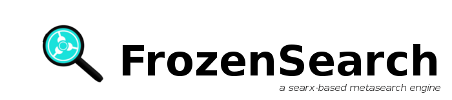
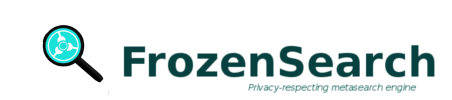
improved interface

Changed region(s): [[0.2478, 0.42, 0.9912, 0.78], [0.5265, 0.84, 0.9912, 0.93]]

diff --git a/searx/templates/oscar/about.html b/searx/templates/oscar/about.html
@@ -3,15 +3,15 @@
 {% block title %}{{ _('about') }} - {% endblock %}
 {% block content %}
 <div>
-    <h1>About <a href="{{ url_for('index') }}">frozensearch</a></h1>
+    <h1>About <a href="{{ url_for('index') }}">FrozenSearch</a></h1>
 
-    <p>frozensearch is a <a href="https://en.wikipedia.org/wiki/Metasearch_engine">metasearch engine</a>, aggregating the results of other <a href="{{ url_for('preferences') }}">search engines</a> while not storing information about its users.
+    <p>FrozenSearch is a <a href="https://en.wikipedia.org/wiki/Metasearch_engine">metasearch engine</a>, aggregating the results of other <a href="{{ url_for('preferences') }}">search engines</a> while not storing information about its users.
     </p>
-    <h2>Why use frozensearch?</h2>
+    <h2>Why use FrozenSearch?</h2>
     <ul>
         <li>frozensearch may not offer you as personalised results as Google, but it doesn't generate a profile about you</li>
         <li>frozensearch doesn't care about what you search for, never shares anything with a third party, and it can't be used to compromise you</li>
-        <li>frozensearch is free software, the code is 100% open and you can help to make it better. See more on <a href="https://github.com/asciimoo/frozensearch">github</a></li>
+        <li>frozensearch is free software, the code is 100% open and you can help to make it better. See more on <a href="https://github.com/frozenbox/frozensearch">github</a></li>
     </ul>
     <p>If you do care about privacy, want to be a conscious user, or otherwise believe
     in digital freedom, make frozensearch your default search engine or run it on your own server</p>
@@ -26,18 +26,16 @@ frozensearch can be added to your browser's search bar; moreover, it can be set 
 
 <h2>How can I make it my own?</h2>
 
-<p>frozensearch appreciates your concern regarding logs, so take the <a href="https://github.com/asciimoo/frozensearch">code</a> and run it yourself! <br />Add your frozensearch to this <a href="https://github.com/asciimoo/frozensearch/wiki/frozensearch-instances">list</a> to help other people reclaim their privacy and make the Internet freer!
+<p>frozensearch appreciates your concern regarding logs, so take the <a href="https://github.com/frozenbox/frozensearch">code</a> and run it yourself! <br />Add your frozensearch to this <a href="https://github.com/asciimoo/searx/wiki/searx-instances">list</a> to help other people reclaim their privacy and make the Internet freer!
 <br />The more decentralized the Internet, is the more freedom we have!</p>
 
 
 <h2>More about frozensearch</h2>
 
 <ul>
-    <li><a href="https://github.com/asciimoo/frozensearch">github</a></li>
-    <li><a href="https://www.ohloh.net/p/frozensearch/">ohloh</a></li>
-    <li><a href="https://twitter.com/frozensearch_engine">twitter</a></li>
-    <li>IRC: #frozensearch @ freenode (<a href="https://kiwiirc.com/client/irc.freenode.com/frozensearch">webclient</a>)</li>
-    <li><a href="https://www.transifex.com/projects/p/frozensearch/">transifex</a></li>
+    <li><a href="http://www.frozenbox.org">Frozenbox Network</a></li>
+    <li><a href="https://github.com/frozenbox/frozensearch">github</a></li>
+    <li><a href="https://twitter.com/frozenboxnet">twitter</a></li>
 </ul>
 
 
@@ -53,12 +51,12 @@ frozensearch can be added to your browser's search bar; moreover, it can be set 
 <h3>New engines?</h3>
 <ul>
     <li>Edit your <a href="https://raw.github.com/asciimoo/frozensearch/master/frozensearch/settings.yml">settings.yml</a></li>
-    <li>Create your custom engine module, check the <a href="https://github.com/asciimoo/frozensearch/blob/master/examples/basic_engine.py">example engine</a></li>
+    <li>Create your custom engine module, check the <a href="https://github.com/frozenbox/frozensearch/blob/master/examples/basic_engine.py">example engine</a></li>
 </ul>
 <p>Don't forget to restart frozensearch after config edit!</p>
 
 <h3>Installation/WSGI support?</h3>
-<p>See the <a href="https://github.com/asciimoo/frozensearch/wiki/Installation">installation and setup</a> wiki page</p>
+<p>See the <a href="https://github.com/asciimoo/searx/wiki/Installation">installation and setup</a> wiki page</p>
 
 <h3>How to debug engines?</h3>
 <p><a href="{{ url_for('stats') }}">Stats page</a> contains some useful data about the engines used.</p>

diff --git a/searx/templates/courgette/about.html b/searx/templates/courgette/about.html
@@ -2,11 +2,11 @@
 {% block content %}
 {% include 'default/github_ribbon.html' %}
 <div class="row">
-    <h1>About <a href="{{ url_for('index') }}">frozensearch</a></h1>
+    <h1>About <a href="{{ url_for('index') }}">FrozenSearch</a></h1>
 
-    <p>frozensearch is a <a href="https://en.wikipedia.org/wiki/Metasearch_engine">metasearch engine</a>, aggregating the results of other <a href="{{ url_for('preferences') }}">search engines</a> while not storing information about its users.
+    <p>FrozenSearch is a <a href="https://en.wikipedia.org/wiki/Metasearch_engine">metasearch engine</a>, aggregating the results of other <a href="{{ url_for('preferences') }}">search engines</a> while not storing information about its users.
     </p>
-    <h2>Why use frozensearch?</h2>
+    <h2>Why use FrozenSearch?</h2>
     <ul>
         <li>frozensearch may not offer you as personalised results as Google, but it doesn't generate a profile about you</li>
         <li>frozensearch doesn't care about what you search for, never shares anything with a third party, and it can't be used to compromise you</li>
@@ -25,18 +25,17 @@ frozensearch can be added to your browser's search bar; moreover, it can be set 
 
 <h2>How can I make it my own?</h2>
 
-<p>frozensearch appreciates your concern regarding logs, so take the <a href="https://github.com/asciimoo/frozensearch">code</a> and run it yourself! <br />Add your frozensearch to this <a href="https://github.com/asciimoo/frozensearch/wiki/frozensearch-instances">list</a> to help other people reclaim their privacy and make the Internet freer!
+<p>frozensearch appreciates your concern regarding logs, so take the <a href="https://github.com/frozenbox/frozensearch">code</a> and run it yourself! <br />Add your frozensearch to this <a href="https://github.com/asciimoo/searx/wiki/searx-instances">list</a> to help other people reclaim their privacy and make the Internet freer!
 <br />The more decentralized the Internet, is the more freedom we have!</p>
 
 
 <h2>More about frozensearch</h2>
 
 <ul>
-    <li><a href="https://github.com/asciimoo/frozensearch">github</a></li>
-    <li><a href="https://www.ohloh.net/p/frozensearch/">ohloh</a></li>
-    <li><a href="https://twitter.com/frozensearch_engine">twitter</a></li>
-    <li>IRC: #frozensearch @ freenode (<a href="https://kiwiirc.com/client/irc.freenode.com/frozensearch">webclient</a>)</li>
-    <li><a href="https://www.transifex.com/projects/p/frozensearch/">transifex</a></li>
+    <li><a href="http://www.frozenbox.org">Frozenbox Homepage</a></li>
+    <li><a href="https://github.com/frozenbox/frozensearch">github</a></li>
+    <li><a href="https://twitter.com/frozenboxnet">twitter</a></li>
+    <li>IRC: #frozenbox @ freenode (<a href="https://kiwiirc.com/client/irc.freenode.com/frozenbox">webclient</a>)</li>
 </ul>
 
 
@@ -51,8 +50,8 @@ frozensearch can be added to your browser's search bar; moreover, it can be set 
 
 <h3>New engines?</h3>
 <ul>
-    <li>Edit your <a href="https://raw.github.com/asciimoo/frozensearch/master/frozensearch/settings.yml">settings.yml</a></li>
-    <li>Create your custom engine module, check the <a href="https://github.com/asciimoo/frozensearch/blob/master/examples/basic_engine.py">example engine</a></li>
+    <li>Edit your <a href="https://raw.github.com/frozenbox/frozensearch/master/searx/settings.yml">settings.yml</a></li>
+    <li>Create your custom engine module, check the <a href="https://github.com/frozenbox/frozensearch/blob/master/examples/basic_engine.py">example engine</a></li>
 </ul>
 <p>Don't forget to restart frozensearch after config edit!</p>
 

diff --git a/searx/templates/oscar/base.html b/searx/templates/oscar/base.html
@@ -6,7 +6,7 @@
     <meta name="keywords" content="frozensearch, search, search engine, metasearch, meta search" />
     <meta http-equiv="X-UA-Compatible" content="IE=edge">
     <meta name="viewport" content="width=device-width, initial-scale=1 , maximum-scale=1.0, user-scalable=1" />
-    <title>{% block title %}{% endblock %}frozensearch</title>
+    <title>{% block title %}{% endblock %}FrozenSearch</title>
 
     <link rel="stylesheet" href="{{ url_for('static', filename='css/bootstrap.min.css') }}" type="text/css" />
     <link rel="stylesheet" href="{{ url_for('static', filename='css/oscar.min.css') }}" type="text/css" />
@@ -65,7 +65,7 @@
         <div class="container">
             {% block footer %}
             {% endblock %}
-            <p class="text-muted">{{ _('Powered by') }} <a href="https://github.com/asciimoo/frozensearch">frozensearch</a> - {{ frozensearch_version }} - {{ _('a privacy-respecting, hackable metasearch engine') }}</p>
+            <p class="text-muted">Powered by <a href="https://github.com/frozenbox/frozensearch">FrozenSearch</a> - a privacy-respecting, hackable metasearch engine - Proudly powered by <a href="http://en.wikipedia.org/wiki/Caffeine" title="Caffeine" rel="nofollow">C<sub>8</sub>H<sub>10</sub>N<sub>4</sub>O<sub>2</sub></a></p>
         </div>
     </div>
     <script src="{{ url_for('static', filename='js/jquery-1.11.1.min.js') }}"></script>

diff --git a/searx/templates/oscar/navbar.html b/searx/templates/oscar/navbar.html
@@ -12,7 +12,8 @@
         </div>
         <div class="navbar-collapse collapse">
             <ul class="nav navbar-nav navbar-right"> <!-- results.html -->
-                <li{% if template_name == 'index.html' %} class="active"{% endif %}><a href="{{ url_for('index') }}" class="hmarg">{{ _('home') }}</a></li>
+		<li{% if template_name == 'index.html' %} class="active"{% endif %}><a href="{{ url_for('index') }}" class="hmarg">{{ _('home') }}</a></li>
+                <li><a href="http://www.frozenbox.org" class="hmarg">Frozenbox Network</a></li>
                 <li{% if template_name == 'about.html' %} class="active"{% endif %}><a href="{{ url_for('about') }}" class="hmarg">{{ _('about') }}</a></li>
                 <li{% if template_name == 'preferences.html' %} class="active"{% endif %}><a href="{{ url_for('preferences') }}" class="hmarg">{{ _('preferences') }}</a></li>
             </ul>

diff --git a/searx/templates/courgette/base.html b/searx/templates/courgette/base.html
@@ -5,7 +5,7 @@
     <meta name="description" content="frozensearch - a privacy-respecting, hackable metasearch engine" />
     <meta name="keywords" content="frozensearch, search, search engine, metasearch, meta search" />
     <meta name="viewport" content="width=device-width, maximum-scale=1.0, user-scalable=1" />
-    <title>{% block title %}{% endblock %}frozensearch</title>
+    <title>{% block title %}{% endblock %}FrozenSearch</title>
     <link rel="stylesheet" href="{{ url_for('static', filename='css/style.css') }}" type="text/css" media="screen" />
     <link rel="shortcut icon" href="{{ url_for('static', filename='img/favicon.png') }}?v=2" />
     {% block styles %}

diff --git a/searx/templates/oscar/index.html b/searx/templates/oscar/index.html
@@ -3,7 +3,7 @@
 <div class="container-fluid">
     <div class="row">
         <div class="text-center col-sm-12 col-md-12">
-            <h1 class="text-hide center-block"><img class="center-block img-responsive" src="{{ url_for('static', filename='img/frozensearch_logo.png') }}" alt="frozensearch logo"/>frozensearch</h1>
+		<h1 class="text-hide center-block"><img class="center-block img-responsive" src="{{ url_for('static', filename='img/frozensearch_logo.png') }}" alt="frozensearch logo"/>FrozenSearch</h1>
         </div>
     </div>
     <div class="row">

diff --git a/searx/templates/courgette/index.html b/searx/templates/courgette/index.html
@@ -2,7 +2,7 @@
 {% block content %}
 {% include 'default/github_ribbon.html' %}
 <div class="center">
-    <div class="title"><h1>frozensearch</h1></div>
+    <div class="title"><h1>FrozenSearch</h1></div>
     {% include 'default/search.html' %}
     <p class="top_margin">
         <a href="{{ url_for('about') }}" class="hmarg">{{ _('about') }}</a>

diff --git a/searx/templates/default/github_ribbon.html b/searx/templates/default/github_ribbon.html
@@ -1,3 +1,3 @@
-<a href="https://github.com/asciimoo/frozensearch" class="github">
+<a href="https://github.com/frozenbox/frozensearch" target=_blank" class="github">
     <img style="position: absolute; top: 0; right: 0; border: 0;" src="{{ url_for('static', filename='img/github_ribbon.png') }}" alt="Fork me on GitHub"  class="github"/>
 </a>

diff --git a/searx/templates/courgette/github_ribbon.html b/searx/templates/courgette/github_ribbon.html
@@ -1,3 +1,3 @@
-<a href="https://github.com/asciimoo/frozensearch" class="github">
+<a href="https://github.com/frozenbox/frozensearch" class="github">
     <img style="position: absolute; top: 0; right: 0; border: 0;" src="{{ url_for('static', filename='img/github_ribbon.png') }}" alt="Fork me on GitHub"  class="github"/>
 </a>
